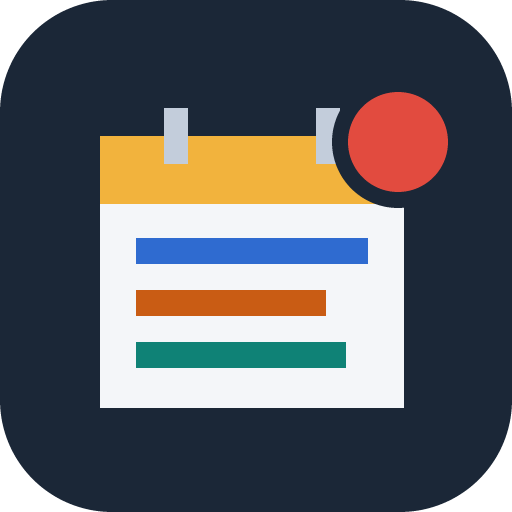
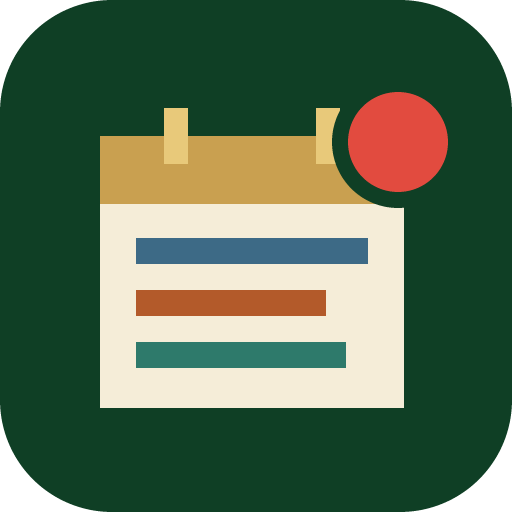
依《起士公爵品牌規範速查》統一介面外觀（只改樣式）
- 配色改成公爵綠導覽列／主按鈕、公爵金點綴、米金背景、暖墨黑文字；深色模式與投影模式一起調整
- 標題改用 Noto Serif TC；部門識別色改成低彩度大地色；狀態色（逾期紅、今天到期橘、完成綠、處理中藍灰）保留且分得開
- 手機版欄位標題的「待確認」標籤不再被擠成直排
- App 圖示、瀏覽器主題色、隱私權／條款頁同步換色

Changed region(s): [[0.1875, 0.1875, 0.8125, 0.8125]]

diff --git a/css/app.css b/css/app.css
@@ -1,39 +1,48 @@
-/* 生產部看板｜版面：左側深藍導覽列＋右側工作區（看板依部門分欄、行事曆月曆）；
+/* 生產部看板｜版面：左側公爵綠品牌導覽列＋右側工作區（看板依部門分欄、行事曆月曆）；
    投影模式是獨立的深色全螢幕版面（字級跟著螢幕寬度放大，適合電視與投影機）。
-   配色：藏青導覽列＋烘焙焦糖色操作色，六個部門各一個識別色；緊急／逾期用紅色，不和部門色混用。 */
+   配色依《起士公爵品牌規範速查》：主色公爵綠（品牌條、主按鈕、標題）、輔色公爵金（點綴、強調、待確認）、米金背景、暖墨黑文字；
+   部門識別色改成自然、低彩度的大地色；狀態色保留且彼此分得開：逾期／緊急紅、今天到期／重要橘、完成綠、處理中藍灰。
+   字型：標題 Noto Serif TC、內文 Noto Sans TC（暫用）。 */
 :root{
-  --bg:#f1f4f7;--surface:#ffffff;--surface-2:#f7f9fb;--surface-hover:#f2f5f9;
-  --ink:#18222e;--ink-2:#394656;--muted:#667385;--faint:#8a96a4;--line:#d9e0e8;--line-2:#e9eef3;
-  --accent:#995c0e;--accent-hover:#7f4c0b;--on-accent:#ffffff;--accent-soft:#fbf2e2;--accent-line:#eed6aa;--accent-ink:#86500d;--focus:#f0d29a;
-  --rail:#1b2737;--rail-ink:#c3cddb;--rail-strong:#ffffff;--rail-muted:#8494a8;--rail-line:#304056;--rail-active:#2a3a50;--rail-mark:#f2b33d;
-  --ok-bg:#e7f5ee;--ok-fg:#1d7552;
-  --warn-bg:#fff4e2;--warn-fg:#8a5710;--warn-line:#f0d9b0;
-  --bad-bg:#fdeded;--bad-fg:#b42f2f;--bad-line:#efc6c6;--bad-mark:#d63c3c;
-  --info-bg:#e9f0fc;--info-fg:#32569a;--neutral-bg:#edf1f5;--neutral-fg:#586677;
-  --d-purchase:#2f6bd0;--d-store:#c95c14;--d-warehouse:#0f8276;--d-material:#7a4fc8;--d-channel:#c03a82;--d-meeting:#55801a;--d-handover:#0b7fae;
-  --toast-bg:#1b2737;--toast-bad:#a33030;--toast-fg:#ffffff;
-  --scrim:rgba(12,20,30,.48);
-  --shadow:0 2px 14px rgba(20,34,52,.06);--shadow-lg:0 18px 50px rgba(14,24,38,.24);
+  --cd-green:#0F3F25;--cd-gold:#C9A050;--cd-green-dark:#132D1C;--cd-green-mid:#4A7C59;--cd-gold-deep:#9B7738;--cd-gold-light:#E8C97A;--cd-bg:#F5EDD8;--cd-text:#1E160E;
+  --bg:var(--cd-bg);--surface:#fffdf7;--surface-2:#faf4e6;--surface-hover:#f6eedc;
+  --ink:var(--cd-text);--ink-2:#3d3326;--muted:#6b5f4d;--faint:#968b77;--line:#e2d6bc;--line-2:#ede4cf;
+  --accent:var(--cd-green);--accent-hover:var(--cd-green-dark);--on-accent:#fffdf7;--accent-soft:#f7ebcb;--accent-line:var(--cd-gold-light);--accent-ink:#7a5a22;--focus:var(--cd-gold-light);
+  --head:var(--cd-green);--sel:var(--cd-green);
+  --rail:var(--cd-green);--rail-ink:#d8e2d2;--rail-strong:#fffdf7;--rail-muted:#9fb7a3;--rail-line:#2b5a3f;--rail-active:#1d5034;--rail-mark:var(--cd-gold);
+  --ok-bg:#e3f0e3;--ok-fg:#25663b;
+  --warn-bg:#fcebdc;--warn-fg:#a04a10;--warn-line:#f0c9a6;
+  --bad-bg:#fbe9e6;--bad-fg:#b02a24;--bad-line:#eec3bd;--bad-mark:#cf3a2f;
+  --info-bg:#e5edf1;--info-fg:#355b72;--neutral-bg:#eee6d3;--neutral-fg:#6b5f4d;
+  --d-handover:var(--cd-green);--d-purchase:#3d6a86;--d-store:#b35a2a;--d-warehouse:#2e7a6b;--d-material:#7a4e3a;--d-channel:#9a4a62;--d-meeting:#6f7d2a;
+  --toast-bg:var(--cd-green-dark);--toast-bad:#9c2a24;--toast-fg:#fffdf7;
+  --scrim:rgba(19,45,28,.5);
+  --shadow:0 2px 14px rgba(30,22,14,.07);--shadow-lg:0 18px 50px rgba(19,45,28,.26);
+  --font-head:"Noto Serif TC","Songti TC","PMingLiU",serif;
   --font-body:"Noto Sans TC","Microsoft JhengHei","PingFang TC",system-ui,-apple-system,sans-serif;
   --font-num:"Barlow Condensed","Noto Sans TC","Microsoft JhengHei",system-ui,sans-serif;
   --font-mono:"Cascadia Mono","SFMono-Regular",Consolas,ui-monospace,monospace;
   color-scheme:light;
 }
 @media (prefers-color-scheme:dark){:root{
-  --bg:#0e141c;--surface:#151e29;--surface-2:#192330;--surface-hover:#1d2835;
-  --ink:#e4e9f0;--ink-2:#c3ccd8;--muted:#95a2b2;--faint:#748194;--line:#29364a;--line-2:#202b39;
-  --accent:#f0b040;--accent-hover:#f6c25f;--on-accent:#1d1404;--accent-soft:#2c2313;--accent-line:#4d3a17;--accent-ink:#f3c56b;--focus:#5b4519;
-  --rail:#0a1017;--rail-ink:#b9c4d2;--rail-strong:#ffffff;--rail-muted:#76869a;--rail-line:#223044;--rail-active:#1c2a3c;--rail-mark:#f2b33d;
-  --ok-bg:#11302a;--ok-fg:#7dd6b0;
-  --warn-bg:#322610;--warn-fg:#f1bf6e;--warn-line:#4d3a17;
-  --bad-bg:#3a1a1c;--bad-fg:#f49a9a;--bad-line:#5a2a2d;--bad-mark:#ea6a6a;
-  --info-bg:#1a2541;--info-fg:#a9bdec;--neutral-bg:#1e2a36;--neutral-fg:#a2b0bf;
-  --d-purchase:#76a3f2;--d-store:#f08f4c;--d-warehouse:#3fc4b3;--d-material:#ad8eee;--d-channel:#ee79b8;--d-meeting:#98c653;--d-handover:#4fc3ef;
-  --toast-bg:#25344a;--toast-bad:#8d2f2f;--toast-fg:#ffffff;
+  --bg:#0c1a11;--surface:#132419;--surface-2:#172b1e;--surface-hover:#1c3324;
+  --ink:#f3ead6;--ink-2:#d8cfb8;--muted:#a9a08a;--faint:#878070;--line:#2b4232;--line-2:#203528;
+  --accent:var(--cd-green-mid);--accent-hover:#5a8f69;--on-accent:#fffdf7;--accent-soft:#2c2614;--accent-line:#5c4a22;--accent-ink:var(--cd-gold-light);--focus:#5c4a22;
+  --head:var(--cd-gold-light);--sel:var(--cd-green-mid);
+  --rail:var(--cd-green-dark);--rail-ink:#cfd9c9;--rail-strong:#fffdf7;--rail-muted:#8ba591;--rail-line:#25432f;--rail-active:#1d3d29;--rail-mark:var(--cd-gold);
+  --ok-bg:#15301f;--ok-fg:#8fd3a5;
+  --warn-bg:#36230f;--warn-fg:#f6a865;--warn-line:#5a3a1a;
+  --bad-bg:#3a1917;--bad-fg:#f59b92;--bad-line:#5c2a26;--bad-mark:#ea6458;
+  --info-bg:#1b2b33;--info-fg:#a8c4d6;--neutral-bg:#22322a;--neutral-fg:#b3ad9c;
+  --d-handover:#86c99c;--d-purchase:#8fb6d1;--d-store:#e5935f;--d-warehouse:#6cc4b1;--d-material:#c99c84;--d-channel:#d98ba3;--d-meeting:#b9c66b;
+  --toast-bg:#1d3d29;--toast-bad:#8a2a24;--toast-fg:#fffdf7;
   --scrim:rgba(0,0,0,.6);
-  --shadow:0 2px 14px rgba(0,0,0,.25);--shadow-lg:0 18px 50px rgba(0,0,0,.55);
+  --shadow:0 2px 14px rgba(0,0,0,.28);--shadow-lg:0 18px 50px rgba(0,0,0,.55);
   color-scheme:dark;
 }}
+/* 標題用品牌襯線字、公爵綠（深色模式用淺金） */
+h1,h2,h3,.brand-name,.p-name{font-family:var(--font-head)}
+.vh h1,.panel > h2,.dayp h2,.md-h h2,.lg-box h1{color:var(--head)}
 *{box-sizing:border-box}
 [hidden]{display:none!important}
 html{-webkit-text-size-adjust:100%}
@@ -87,7 +96,7 @@ html.auth-locked .app{display:none}
 .nav-btn.on{background:var(--rail-active);color:var(--rail-strong);box-shadow:inset 3px 0 0 var(--rail-mark)}
 .nav-ico{width:18px;text-align:center;color:var(--rail-muted)}
 .nav-btn.on .nav-ico{color:var(--rail-mark)}
-.nav-badge{margin-left:auto;background:var(--rail-mark);color:#1d1404;font-family:var(--font-num);font-weight:700;font-size:13px;border-radius:999px;padding:0 7px;line-height:20px}
+.nav-badge{margin-left:auto;background:var(--rail-mark);color:var(--cd-text);font-family:var(--font-num);font-weight:700;font-size:13px;border-radius:999px;padding:0 7px;line-height:20px}
 .nav-title{font-size:11px;letter-spacing:.14em;color:var(--rail-muted);padding:16px 10px 4px}
 .dept-list{display:flex;flex-direction:column;gap:1px}
 .dept-row{display:flex;align-items:center;gap:9px;padding:7px 10px;border-radius:8px;border:0;background:transparent;color:var(--rail-ink);text-align:left;width:100%}
@@ -95,14 +104,14 @@ html.auth-locked .app{display:none}
 .dept-row.on{background:var(--rail-active);color:var(--rail-strong)}
 .dept-row .sw{width:10px;height:10px;border-radius:3px;background:var(--dc);flex:none}
 .dept-row .cnt{margin-left:auto;font-family:var(--font-num);font-size:15px;font-weight:600;color:var(--rail-strong)}
-.dept-row .new{font-family:var(--font-num);font-size:12px;font-weight:700;color:#1d1404;background:var(--rail-mark);border-radius:999px;padding:0 6px;line-height:18px}
-.sidebar .d-purchase{--dc:#76a3f2}.sidebar .d-store{--dc:#f08f4c}.sidebar .d-warehouse{--dc:#3fc4b3}.sidebar .d-material{--dc:#ad8eee}.sidebar .d-channel{--dc:#ee79b8}.sidebar .d-meeting{--dc:#98c653}.sidebar .d-handover{--dc:#4fc3ef}
+.dept-row .new{font-family:var(--font-num);font-size:12px;font-weight:700;color:var(--cd-text);background:var(--rail-mark);border-radius:999px;padding:0 6px;line-height:18px}
+.sidebar .d-purchase{--dc:#9cc0d8}.sidebar .d-store{--dc:#eba072}.sidebar .d-warehouse{--dc:#7fcdbb}.sidebar .d-material{--dc:#d3ab92}.sidebar .d-channel{--dc:#e29ab0}.sidebar .d-meeting{--dc:#c6d17e}.sidebar .d-handover{--dc:var(--cd-gold-light)}
 .side-foot{margin-top:auto;display:flex;flex-direction:column;gap:8px;padding-top:14px;border-top:1px solid var(--rail-line)}
 .sync{display:flex;align-items:center;gap:8px;border:0;background:transparent;color:var(--rail-ink);font-size:12px;padding:4px 8px;border-radius:6px;text-align:left}
 .sync:hover{background:var(--rail-active)}
-.sync-dot{width:8px;height:8px;border-radius:50%;background:#7dd6b0;flex:none}
-.sync[data-state="pending"] .sync-dot,.sync[data-state="syncing"] .sync-dot,.sync[data-state="loading"] .sync-dot{background:#f2b33d}
-.sync[data-state="offline"] .sync-dot{background:#8494a8}
+.sync-dot{width:8px;height:8px;border-radius:50%;background:#8fd3a5;flex:none}
+.sync[data-state="pending"] .sync-dot,.sync[data-state="syncing"] .sync-dot,.sync[data-state="loading"] .sync-dot{background:var(--cd-gold-light)}
+.sync[data-state="offline"] .sync-dot{background:#9fb7a3}
 .sync[data-state="error"] .sync-dot{background:#ea6a6a}
 .me{display:flex;align-items:center;gap:8px;font-size:12px;padding:0 8px;color:var(--rail-muted)}
 .me b{color:var(--rail-strong);font-weight:500;font-size:13px}
@@ -134,7 +143,7 @@ html.auth-locked .app{display:none}
 .seg button{border:0;background:transparent;padding:6px 12px;font-size:13px;font-weight:500;color:var(--muted);border-right:1px solid var(--line)}
 .seg button:last-child{border-right:0}
 .seg button:hover{background:var(--surface-hover);color:var(--ink-2)}
-.seg button.on{background:var(--rail);color:#fff}
+.seg button.on{background:var(--sel);color:var(--rail-strong)}
 .pill{display:inline-flex;align-items:center;gap:4px;font-size:12px;font-weight:700;border-radius:999px;padding:1px 8px;line-height:18px;white-space:nowrap;background:var(--neutral-bg);color:var(--neutral-fg)}
 .pill.p-urgent{background:var(--bad-mark);color:#fff}
 .pill.p-high{background:var(--warn-bg);color:var(--warn-fg);box-shadow:inset 0 0 0 1px var(--warn-line)}
@@ -164,7 +173,7 @@ html.auth-locked .app{display:none}
 .stats{display:grid;grid-template-columns:repeat(5,minmax(0,1fr));gap:10px}
 .stat{display:flex;flex-direction:column;align-items:flex-start;gap:2px;border:1px solid var(--line);background:var(--surface);border-radius:10px;padding:10px 14px;text-align:left}
 .stat:hover{border-color:var(--faint)}
-.stat.on{border-color:var(--rail);box-shadow:inset 0 0 0 1px var(--rail)}
+.stat.on{border-color:var(--sel);box-shadow:inset 0 0 0 1px var(--sel)}
 .stat .lb{font-size:12px;color:var(--muted);font-weight:500}
 .stat .v{font-family:var(--font-num);font-size:30px;font-weight:700;line-height:1.05;font-variant-numeric:tabular-nums}
 .stat.k-over .v{color:var(--bad-fg)}
@@ -183,7 +192,7 @@ html.auth-locked .app{display:none}
 button.chip:hover{border-color:var(--faint)}
 .toolbar{display:flex;align-items:center;gap:10px;flex-wrap:wrap}
 .search{flex:1 1 220px;min-width:0;max-width:340px;height:36px;border:1px solid var(--line);border-radius:8px;padding:0 12px;background:var(--surface)}
-.filter-chip{display:inline-flex;align-items:center;gap:6px;background:var(--rail);color:#fff;border:0;border-radius:999px;padding:4px 10px 4px 12px;font-size:12px}
+.filter-chip{display:inline-flex;align-items:center;gap:6px;background:var(--sel);color:var(--rail-strong);border:0;border-radius:999px;padding:4px 10px 4px 12px;font-size:12px}
 .lanes{display:grid;grid-template-columns:repeat(3,minmax(0,1fr));gap:14px;align-items:start}
 .lanes.one{grid-template-columns:minmax(0,1fr)}
 .lane.wide{grid-column:1/-1}
@@ -193,10 +202,11 @@ button.chip:hover{border-color:var(--faint)}
 .lane-h{display:flex;align-items:center;gap:8px;padding:10px 12px 8px;border-bottom:1px solid var(--line-2)}
 .lane-h .dtag{font-size:15px}
 .lane-h .cnt{font-family:var(--font-num);font-size:16px;font-weight:600;color:var(--muted)}
-.lane-h .new{font-size:11px;font-weight:700;color:var(--accent-ink);background:var(--accent-soft);border-radius:999px;padding:0 7px}
+.lane-h .new{font-size:11px;font-weight:700;color:var(--accent-ink);background:var(--accent-soft);border-radius:999px;padding:0 7px;white-space:nowrap;flex:none}
+.lane-h .dtag{white-space:normal;min-width:0}
 .lane-h .icon-btn{margin-left:auto;width:28px;height:28px;font-size:18px}
 .lane.g-over .lane-h .dtag{--dc:var(--bad-mark)}
-.lane.g-today .lane-h .dtag{--dc:#e08a1a}
+.lane.g-today .lane-h .dtag{--dc:var(--warn-fg)}
 .cards{display:flex;flex-direction:column;gap:8px;padding:10px;max-height:560px;overflow:auto}
 .card{position:relative;background:var(--surface);border:1px solid var(--line);border-radius:10px;padding:10px 12px;display:flex;flex-direction:column;gap:5px;cursor:pointer;text-align:left;width:100%;transition:border-color .15s,box-shadow .15s}
 .card:hover{border-color:color-mix(in srgb,var(--dc,var(--faint)) 55%,var(--line));box-shadow:var(--shadow)}
@@ -207,7 +217,7 @@ button.chip:hover{border-color:var(--faint)}
 .c-top .dtag{font-size:12px}
 .c-top .pill:first-of-type{margin-left:auto}
 .c-title{font-size:15px;font-weight:700;line-height:1.4;color:var(--ink);overflow-wrap:anywhere}
-.card.is-new .c-title::before{content:"";display:inline-block;width:8px;height:8px;border-radius:50%;background:var(--accent);margin-right:7px;vertical-align:2px}
+.card.is-new .c-title::before{content:"";display:inline-block;width:8px;height:8px;border-radius:50%;background:var(--cd-gold);margin-right:7px;vertical-align:2px}
 .c-meta{display:flex;align-items:baseline;gap:4px 12px;flex-wrap:wrap;font-size:12px;color:var(--ink-2)}
 .c-meta .it{overflow-wrap:anywhere}
 .c-meta .from{font-weight:700;color:var(--ink)}
@@ -395,15 +405,15 @@ button.chip:hover{border-color:var(--faint)}
    投影模式：固定深色、字級跟著螢幕寬度放大（1920 寬約 20px）
    ===================================================================== */
 .proj{position:fixed;inset:0;z-index:60;display:grid;grid-template-rows:auto minmax(0,1fr) auto;overflow:hidden;
-  --p-bg:#0a1019;--p-panel:#111a27;--p-panel-2:#172231;--p-line:#243247;--p-ink:#eef2f7;--p-ink-2:#c5cfdc;--p-muted:#8a99ae;--p-gold:#f4b63c;--p-red:#ff5f5f;--p-amber:#ffb547;--p-green:#6fd3a5;
-  --d-purchase:#7eaaff;--d-store:#ff9c55;--d-warehouse:#45d3c1;--d-material:#b898ff;--d-channel:#ff80c0;--d-meeting:#a5d660;--d-handover:#5fd0ff;--d-none:#8a99ae;
+  --p-bg:#0b1a10;--p-panel:var(--cd-green-dark);--p-panel-2:#1a3a25;--p-line:#2a4a34;--p-ink:#f7f0de;--p-ink-2:#dcd3bc;--p-muted:#a2aa92;--p-gold:var(--cd-gold-light);--p-red:#ff6a5c;--p-amber:#ff9d4d;--p-green:#7fd69f;
+  --d-purchase:#9cc4e0;--d-store:#f0a172;--d-warehouse:#78d4bf;--d-material:#ddb196;--d-channel:#eaa0b6;--d-meeting:#cad883;--d-handover:#9edbb0;--d-none:#a2aa92;
   background:var(--p-bg);color:var(--p-ink);font-family:var(--font-body);font-size:clamp(13px,1.04vw,26px);line-height:1.45;color-scheme:dark;
   padding:env(safe-area-inset-top,0px) env(safe-area-inset-right,0px) env(safe-area-inset-bottom,0px) env(safe-area-inset-left,0px)}
 .proj.idle{cursor:none}
 .proj .d-none{--dc:var(--d-none)}
 .p-top{display:flex;align-items:center;gap:1.6em;padding:.9em 1.6em .8em;border-bottom:1px solid var(--p-line)}
 .p-brand{display:flex;align-items:center;gap:.8em;min-width:0}
-.p-mark{width:2.2em;height:2.2em;border-radius:.55em;background:var(--p-gold);display:grid;place-items:center;color:#1d1404;font-weight:900;font-size:1.05em;flex:none}
+.p-mark{width:2.2em;height:2.2em;border-radius:.55em;background:var(--p-gold);display:grid;place-items:center;color:var(--cd-text);font-weight:900;font-size:1.05em;flex:none}
 .p-name{font-size:1.45em;font-weight:900;letter-spacing:.08em;line-height:1.15}
 .p-date{color:var(--p-muted);font-size:.95em}
 .p-stats{display:flex;gap:.6em;margin-left:auto}
@@ -458,7 +468,7 @@ button.chip:hover{border-color:var(--faint)}
 .p-scroll{display:flex;flex-direction:column;gap:.45em}
 /* 字多到縮到最小還放不下（不捲動）：下緣淡出，左下標示「點一下看全文」 */
 .p-card.clip .p-viewport{-webkit-mask-image:linear-gradient(to bottom,#000 78%,transparent);mask-image:linear-gradient(to bottom,#000 78%,transparent)}
-.p-card.clip .p-foot::before{content:"字很多，點一下看全文";flex:none;align-self:center;background:var(--p-gold);color:#1d1404;font-weight:900;font-size:.85em;border-radius:.4em;padding:.2em .7em}
+.p-card.clip .p-foot::before{content:"字很多，點一下看全文";flex:none;align-self:center;background:var(--p-gold);color:var(--cd-text);font-weight:900;font-size:.85em;border-radius:.4em;padding:.2em .7em}
 .p-card.urgent{background:color-mix(in srgb,var(--p-red) 13%,var(--p-panel-2));box-shadow:inset 0 .3em 0 var(--dc),inset 0 0 0 2px color-mix(in srgb,var(--p-red) 70%,transparent)}
 .p-card .top{display:flex;align-items:center;gap:.6em;flex-wrap:wrap;padding-top:.2em}
 .p-card .dtag{font-size:1em}
@@ -467,7 +477,7 @@ button.chip:hover{border-color:var(--faint)}
 .p-pill{font-size:.78em;font-weight:700;border-radius:999px;padding:.05em .7em;background:var(--p-line);color:var(--p-ink-2);white-space:nowrap}
 .p-pill.urgent{background:var(--p-red);color:#fff}
 .p-pill.high{background:color-mix(in srgb,var(--p-amber) 25%,transparent);color:var(--p-amber)}
-.p-pill.new{background:var(--p-gold);color:#1d1404}
+.p-pill.new{background:var(--p-gold);color:var(--cd-text)}
 .p-card .ti{font-size:1.55em;font-weight:900;line-height:1.3;overflow-wrap:anywhere}
 .p-card .bd{color:var(--p-ink-2);font-size:.95em;line-height:1.5;white-space:pre-line;overflow-wrap:anywhere}
 .p-card .meta{display:flex;gap:.3em 1.1em;flex-wrap:wrap;font-size:.92em;color:var(--p-ink-2)}
@@ -505,7 +515,7 @@ button.chip:hover{border-color:var(--faint)}
 .p-dn .x{font-weight:700;min-width:0;overflow-wrap:anywhere;line-height:1.4}
 .p-dn.urgent{box-shadow:inset 0 0 0 1.5px var(--p-red)}
 .p-ticker{display:flex;align-items:center;gap:1em;padding:.6em 1.6em;border-top:1px solid var(--p-line);background:var(--p-panel);min-width:0}
-.p-tk-label{flex:none;background:var(--p-gold);color:#1d1404;font-weight:900;font-size:.9em;letter-spacing:.1em;border-radius:.35em;padding:.15em .7em}
+.p-tk-label{flex:none;background:var(--p-gold);color:var(--cd-text);font-weight:900;font-size:.9em;letter-spacing:.1em;border-radius:.35em;padding:.15em .7em}
 /* 最新：不捲動，一次一則完整顯示（最多兩行），每 7 秒淡入下一則 */
 .p-tk-track{position:relative;flex:1;min-width:0;height:2.8em;overflow:hidden}
 .p-tk-item{position:absolute;inset:0;display:flex;align-items:center;opacity:0;visibility:hidden;transition:opacity .6s,visibility .6s;font-size:calc(1.05em * var(--k,1))}
@@ -513,15 +523,15 @@ button.chip:hover{border-color:var(--faint)}
 .p-tk-item .tx{display:block;line-height:1.35;overflow-wrap:anywhere}
 .p-tk-item b{font-weight:900}
 .p-tk-count{flex:none;font-family:var(--font-num);color:var(--p-muted);font-size:.9em}
-.p-ctl{position:absolute;bottom:calc(env(safe-area-inset-bottom,0px) + 3.6em);right:calc(env(safe-area-inset-right,0px) + 1.6em);display:flex;gap:.5em;padding:.4em;border-radius:.7em;background:rgba(17,26,39,.92);box-shadow:0 10px 30px rgba(0,0,0,.5);transition:opacity .3s;z-index:3}
+.p-ctl{position:absolute;bottom:calc(env(safe-area-inset-bottom,0px) + 3.6em);right:calc(env(safe-area-inset-right,0px) + 1.6em);display:flex;gap:.5em;padding:.4em;border-radius:.7em;background:rgba(19,45,28,.94);box-shadow:0 10px 30px rgba(0,0,0,.5);transition:opacity .3s;z-index:3}
 .proj.idle .p-ctl{opacity:0;pointer-events:none}
 .p-ctl button{border:1px solid var(--p-line);background:var(--p-panel-2);color:var(--p-ink);border-radius:.45em;padding:.35em .9em;font-size:.85em}
 .p-ctl button:hover{border-color:var(--p-muted)}
 .p-ctl button.on{border-color:var(--p-gold);color:var(--p-gold)}
-.p-hint{position:absolute;left:50%;top:calc(env(safe-area-inset-top,0px) + 1.2em);transform:translateX(-50%);background:var(--p-gold);color:#1d1404;font-weight:700;border-radius:999px;padding:.4em 1.2em;font-size:.95em;z-index:3;border:0}
+.p-hint{position:absolute;left:50%;top:calc(env(safe-area-inset-top,0px) + 1.2em);transform:translateX(-50%);background:var(--p-gold);color:var(--cd-text);font-weight:700;border-radius:999px;padding:.4em 1.2em;font-size:.95em;z-index:3;border:0}
 
 /* 投影模式的新通知、行程提醒（蓋在畫面上）*/
-.p-pop{position:absolute;inset:0;z-index:5;display:grid;place-items:center;background:rgba(5,9,15,.72);padding:4vh 6vw;cursor:pointer}
+.p-pop{position:absolute;inset:0;z-index:5;display:grid;place-items:center;background:rgba(6,16,10,.74);padding:4vh 6vw;cursor:pointer}
 .p-pop-box{font-size:calc(1em * var(--k,1));width:min(70em,100%);background:var(--p-panel);border-radius:1.1em;padding:1.8em 2.2em 1.4em;box-shadow:0 30px 80px rgba(0,0,0,.6),inset 0 0 0 3px var(--p-gold);display:flex;flex-direction:column;gap:.8em;animation:popIn .35s cubic-bezier(.2,.9,.3,1.2)}
 .p-pop-box.urgent{box-shadow:0 30px 80px rgba(0,0,0,.6),inset 0 0 0 4px var(--p-red);animation:popIn .35s cubic-bezier(.2,.9,.3,1.2),popPulse 1.2s ease-in-out .4s 4}
 .p-pop-k{display:flex;align-items:center;gap:.8em;font-size:1.25em;font-weight:900;letter-spacing:.1em;color:var(--p-gold)}
@@ -542,7 +552,7 @@ button.chip:hover{border-color:var(--faint)}
 .proj [data-act="p-zoom"]{cursor:pointer}
 .proj [data-act="p-zoom"]:hover{filter:brightness(1.15)}
 .p-more[data-act="p-zoom"]{text-decoration:underline;text-underline-offset:.2em}
-.p-zoom{position:absolute;inset:0;z-index:4;display:grid;place-items:center;background:rgba(5,9,15,.74);padding:4vh 5vw;cursor:pointer}
+.p-zoom{position:absolute;inset:0;z-index:4;display:grid;place-items:center;background:rgba(6,16,10,.76);padding:4vh 5vw;cursor:pointer}
 .p-zoom-box{width:min(72em,100%);max-height:88vh;display:flex;flex-direction:column;gap:.9em;background:var(--p-panel);border-radius:1.1em;padding:1.5em 2em 1.3em;box-shadow:0 30px 80px rgba(0,0,0,.6),inset 0 .35em 0 var(--dc,var(--p-gold));font-size:calc(1em * var(--k,1));animation:popIn .25s ease-out;cursor:auto}
 .p-zoom-box.urgent{box-shadow:0 30px 80px rgba(0,0,0,.6),inset 0 .35em 0 var(--dc),inset 0 0 0 3px var(--p-red)}
 .p-zoom-k{display:flex;align-items:center;gap:.8em;flex-wrap:wrap;font-size:1.15em;padding-top:.2em}

diff --git a/index.html b/index.html
@@ -5,7 +5,7 @@
 <meta name="viewport" content="width=device-width,initial-scale=1,viewport-fit=cover">
 <title>生產部看板</title>
 <meta name="description" content="彙整採購、門市、倉管、物管、通路與產銷會議要給生產部的通知，含行事曆與投影提醒">
-<meta name="theme-color" content="#1b2737">
+<meta name="theme-color" content="#0F3F25">
 <meta name="application-name" content="生產看板">
 <meta name="apple-mobile-web-app-capable" content="yes">
 <meta name="mobile-web-app-capable" content="yes">
@@ -16,7 +16,7 @@
 <link rel="apple-touch-icon" href="icons/icon-192.png">
 <link rel="preconnect" href="https://fonts.googleapis.com">
 <link rel="preconnect" href="https://fonts.gstatic.com" crossorigin>
-<link rel="stylesheet" href="https://fonts.googleapis.com/css2?family=Barlow+Condensed:wght@500;600;700&family=Noto+Sans+TC:wght@400;500;700;900&display=swap">
+<link rel="stylesheet" href="https://fonts.googleapis.com/css2?family=Barlow+Condensed:wght@500;600;700&family=Noto+Sans+TC:wght@400;500;700;900&family=Noto+Serif+TC:wght@600;700;900&display=swap">
 <link rel="stylesheet" href="css/app.css">
 <script src="config.js"></script>
 <script src="js/auth.js"></script>

diff --git a/privacy.html b/privacy.html
@@ -4,7 +4,7 @@
 <meta charset="utf-8">
 <meta name="viewport" content="width=device-width,initial-scale=1">
 <title>隱私權政策｜生產部看板</title>
-<style>body{margin:0;padding:32px 16px;font-family:"Noto Sans TC","Microsoft JhengHei","PingFang TC",system-ui,sans-serif;line-height:1.7;color:#18222e;background:#f1f4f7}main{max-width:680px;margin:0 auto;background:#fff;border:1px solid #d9e0e8;border-radius:12px;padding:24px 28px}h1{font-size:22px;margin:0 0 12px}h2{font-size:16px;margin:20px 0 6px}</style>
+<style>body{margin:0;padding:32px 16px;font-family:"Noto Sans TC","Microsoft JhengHei","PingFang TC",system-ui,sans-serif;line-height:1.7;color:#1E160E;background:#F5EDD8}main{max-width:680px;margin:0 auto;background:#fffdf7;border:1px solid #e2d6bc;border-radius:12px;padding:24px 28px}h1{font-size:22px;margin:0 0 12px;color:#0F3F25;font-family:"Noto Serif TC","Songti TC","PMingLiU",serif}h2{font-size:16px;margin:20px 0 6px;color:#0F3F25}</style>
 </head>
 <body>
 <main>

diff --git a/terms.html b/terms.html
@@ -4,7 +4,7 @@
 <meta charset="utf-8">
 <meta name="viewport" content="width=device-width,initial-scale=1">
 <title>服務條款｜生產部看板</title>
-<style>body{margin:0;padding:32px 16px;font-family:"Noto Sans TC","Microsoft JhengHei","PingFang TC",system-ui,sans-serif;line-height:1.7;color:#18222e;background:#f1f4f7}main{max-width:680px;margin:0 auto;background:#fff;border:1px solid #d9e0e8;border-radius:12px;padding:24px 28px}h1{font-size:22px;margin:0 0 12px}</style>
+<style>body{margin:0;padding:32px 16px;font-family:"Noto Sans TC","Microsoft JhengHei","PingFang TC",system-ui,sans-serif;line-height:1.7;color:#1E160E;background:#F5EDD8}main{max-width:680px;margin:0 auto;background:#fffdf7;border:1px solid #e2d6bc;border-radius:12px;padding:24px 28px}h1{font-size:22px;margin:0 0 12px;color:#0F3F25;font-family:"Noto Serif TC","Songti TC","PMingLiU",serif}</style>
 </head>
 <body>
 <main>
